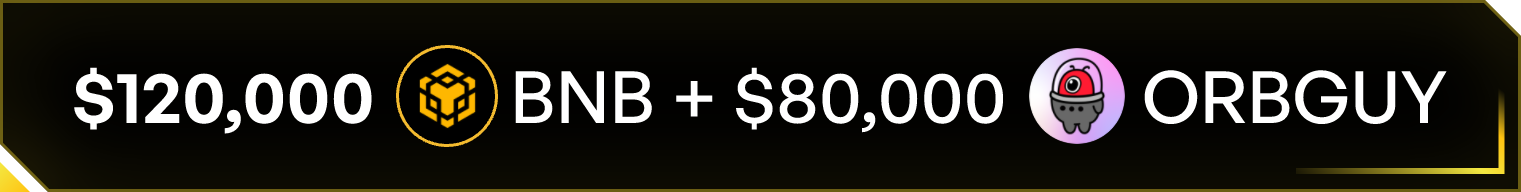
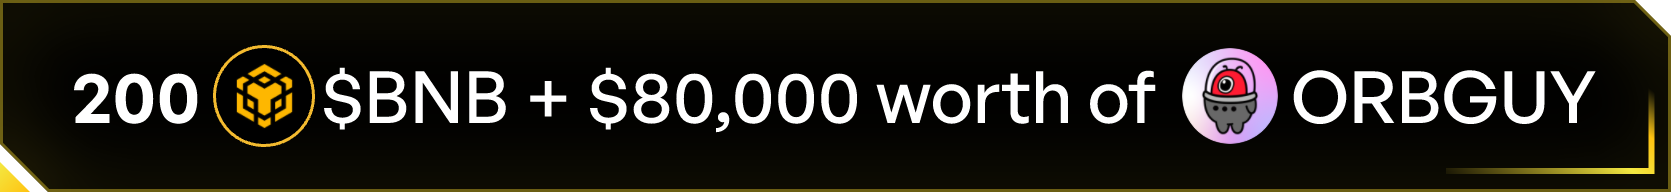
fix: prizesv2 success

diff --git a/src/views/prizes2/components/PrizesRule.vue b/src/views/prizes2/components/PrizesRule.vue
@@ -3,7 +3,7 @@
     <div class="rule-title">Terms and Conditions</div>
     <div class="prizes-rule-card">
       <div v-for="(item, index) in ruleList" :key="index">
-        <div class="card-label" v-html="item.label"></div>
+        <div class="card-label">{{ item.label }}</div>
         <div
           class="card-rule-text"
           v-for="(option, idx) in item.text"
@@ -51,26 +51,26 @@ export default {
           ],
         },
         {
-          label: '4. How to Share $200,000 value of $BNB and get 0 Bridging-Fee?',
+          label: '4. How to Share 200$BNB and get 0 Bridging-Fee?',
           text: [
-            '- The top 100 users in the bridging competition will share an $200,000 value of $BNB prize pool. Additionally, the top 10 users will receive a 0 Bridging Fee extra reward.',
+            '- The top 300 users in the bridging competition will share a 200 $BNB prize pool. Additionally, the top 10 users will receive a 0 Bridging Fee extra reward.',
             '- We will rebate all bridging fees ($2/tx) except for gas fees.'
           ],
         },
         {
-          label: '<span class="orbiter_global_prizes_rule_tag">5. What is the 0 Bridging Fee Reward?</span>',
+          label: '5. What is the 0 Bridging Fee Reward?',
           text: [
             '- For the top 10 users, all bridging fees ($2/tx) except for gas fees will be rebated.',
           ],
         },
         {
-          label: '<span class="orbiter_global_prizes_rule_tag">6. What is the rule of ranking?</span>',
+          label: '6. What is the rule of ranking?',
           text: [
             '- The ranking is determined based on transactions. If users have the same number of transactions, ranking will be based on the transaction value from largest to smallest. More transactions, greater chance to win!',
           ],
         },
         {
-          label: '<span class="orbiter_global_prizes_rule_tag">7. When will the rewards be distributed?</span>',
+          label: '7. When will the rewards be distributed?',
           text: [
             '- All rewards will be distributed when the competition ends, including $ORBGUY, BNB prize pool and top 10 winners\' all bridging fees.',
           ],

diff --git a/src/views/bridge/Transfer.vue b/src/views/bridge/Transfer.vue
@@ -201,7 +201,7 @@
           />
         </div>
       </div>
-      <!-- <img v-if="false" :src="require('../../assets/prizes/v1/prizes-transfer-image.png')" class="prizes-card" @click="goToPrizes" /> -->
+      <img v-if="!isPrizesEnd" :src="require('../../assets/prizes/v2/prizes-transfer-image.png')" class="prizes-card" @click="goToPrizes" />
       <CommBtn
               @click="sendTransfer"
               :disabled="sendBtnInfo ? sendBtnInfo.disabled : true"
@@ -445,7 +445,7 @@ import {
   setSelectWalletDialogVisible,
   setConnectWalletGroupKey,
   setActPointFetchStatus,
-  prizesTimeEnd
+  prizesV2TimeEnd
 } from '../../composition/hooks';
 import { isArgentApp, isBrowserApp, isDev } from "../../util";
 import { RequestMethod, requestOpenApi, requestPointSystem, getNoticeData } from "../../common/openApiAx";
@@ -554,7 +554,7 @@ export default {
   },
   computed: {
     isPrizesEnd(){
-      return prizesTimeEnd.value
+      return prizesV2TimeEnd.value
     },
     isMobileSize() {
       return isMobile.value
@@ -966,8 +966,8 @@ export default {
   },
   methods: {
     goToPrizes(){
-      this.$gtag.event("TRANSFER_TO_PRIZES", {
-        event_category: "TRANSFER_TO_PRIZES",
+      this.$gtag.event("TRANSFER_TO_PRIZESV2", {
+        event_category: "TRANSFER_TO_PRIZESV2",
         event_label: "to prizes",
       })
       this.$router.push("/prizes")

diff --git a/src/views/prizes2/components/PrizesDays.vue b/src/views/prizes2/components/PrizesDays.vue
@@ -1009,6 +1009,7 @@ export default {
               display: flex;
               justify-content: flex-start;
               align-items: flex-end;
+              margin-top: 10px;
               .reward {
                 display: flex;
                 justify-content: flex-start;
@@ -1310,6 +1311,7 @@ export default {
                 margin-top: 4px;
               }
               .task-orbguy-info-reward {
+                display: block;
                 .reward {
                   font-size: 20px;
                   .token-symbol {
@@ -1317,9 +1319,6 @@ export default {
                     height: 20px;
                   }
                 }
-              }
-              .task-orbguy-info-reward {
-                display: block;
               }
             }
             .draw-btn {

diff --git a/src/components/layouts/PrizesCard.vue b/src/components/layouts/PrizesCard.vue
@@ -341,8 +341,8 @@ export default {
   },
   methods: {
     goToPrizes() {
-      this.$gtag.event("OPointsGoToPrizes", {
-        event_category: "OPointsGoToPrizes",
+      this.$gtag.event("OPointsGoToPrizesV2", {
+        event_category: "OPointsGoToPrizesV2",
         event_label: "o points modal task go to prizes",
       })
       this.$router.push("/prizes")

diff --git a/src/views/prizes2/components/PrizesUser.vue b/src/views/prizes2/components/PrizesUser.vue
@@ -2,8 +2,7 @@
   <div class="prizes-user" id="prizes-user">
     <div class="title-group">
       <div class="user-title">
-        <span>$120,000</span>
-         value of
+        <span>200</span>
          <svg-icon class="token" iconName="BNB"></svg-icon>
          $BNB for top 300</div>
     </div>

diff --git a/src/router.js b/src/router.js
@@ -68,14 +68,6 @@ export default new Router({
       },
     },
     {
-      path: '/prizes-old',
-      component: PrizesOld,
-      meta: {
-        title: 'Prizes',
-        keepAlive: false,
-      },
-    },
-    {
       path: '/prizes',
       component: Prizes,
       meta: {
